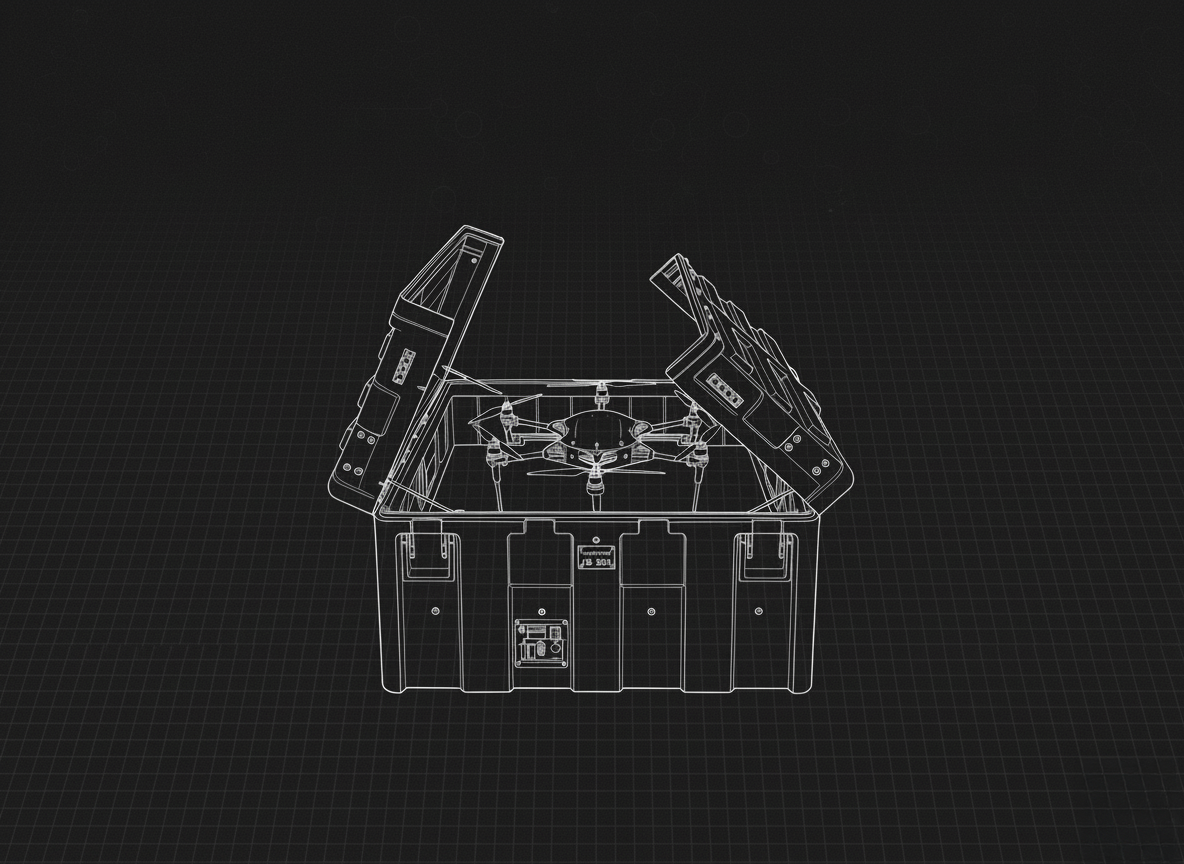
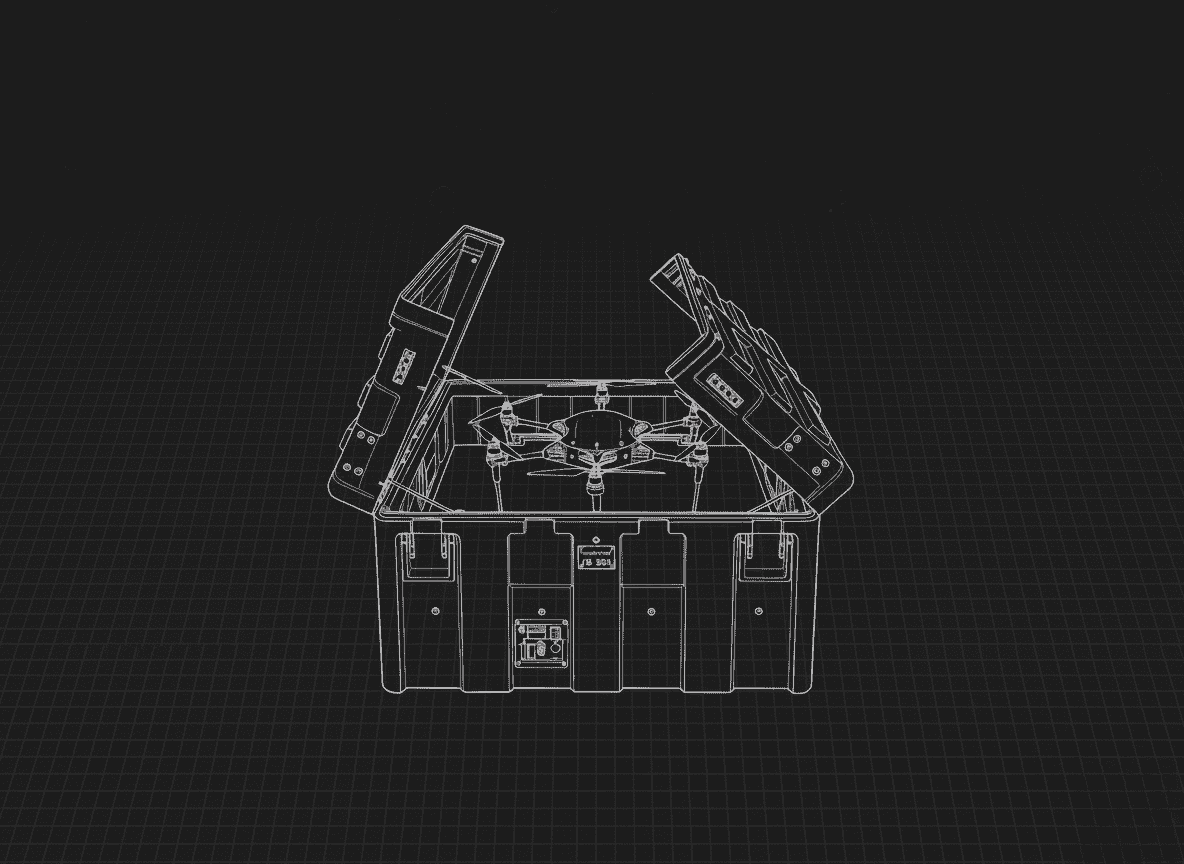
Optimize images: replace PNG with JPG for drone-hero-original

diff --git a/src/components/sections/Hero.jsx b/src/components/sections/Hero.jsx
@@ -24,7 +24,7 @@ export default function Hero() {
       <div 
         className="absolute inset-0"
         style={{
-          backgroundImage: 'url(/drone-hero-original.png)',
+          backgroundImage: 'url(/drone-hero-original.jpg)',
           backgroundSize: 'cover',
           backgroundPosition: 'center center',
           backgroundRepeat: 'no-repeat'
